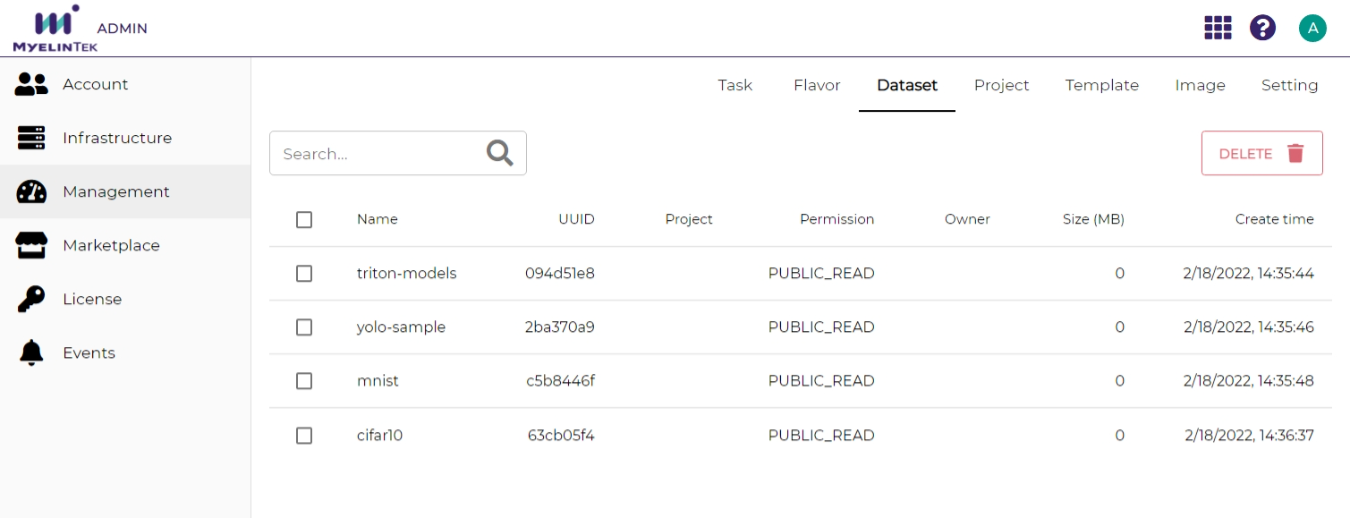
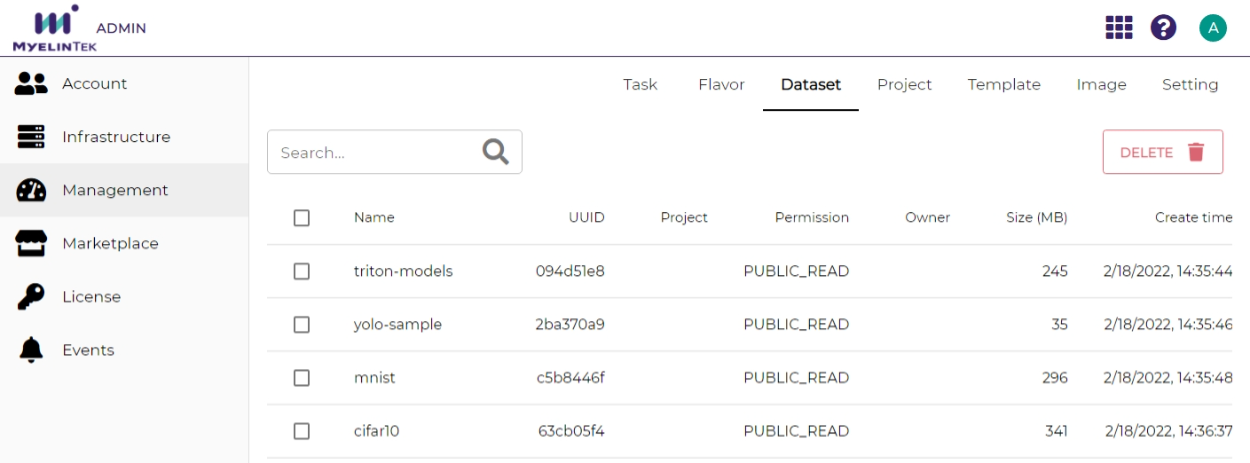
Update the management page

diff --git a/administration/management.rst b/administration/management.rst
@@ -57,14 +57,16 @@ The dataset tab lists the datasets in the system.
 
 * Name: project name
 * UUID: project identifier
-* Project: TODO: meaning
+* Project: owner project, empty for built-in datasets
 * Permission: dataset access permission
-* Owner: dataset owner
-* Size: TODO: meaning; 0 MB?
+* Owner: dataset creator
+* Size: dataset size in MB
 * Create time: dataset creation time
 
 .. image:: /_static/imgs/administration/management/view_datasets.png
     :width: 600
+
+TODO: Owner → Creator (description & image)
 
 Dataset management operations:
 
@@ -145,16 +147,13 @@ Setting
 
 The setting page lists the global system settings.
 
-* open_files: maximum number of opened files
-* pids_limit: maximum number of processes
-* shm_size: shared memory size in GB
-* storage_limit: storage size in GB
+* open_files: maximum number of opened files for a container
+* pids_limit: maximum number of processes for a container
+* shm_size: shared memory size in GB for a container
+* storage_limit: storage size in GB for a container
 
 .. image:: /_static/imgs/administration/management/view_setting.png
     :width: 600
-
-TODO: per host settings?
-TODO: update image (Unit: g and G)
 
 The setting management operations:
 
